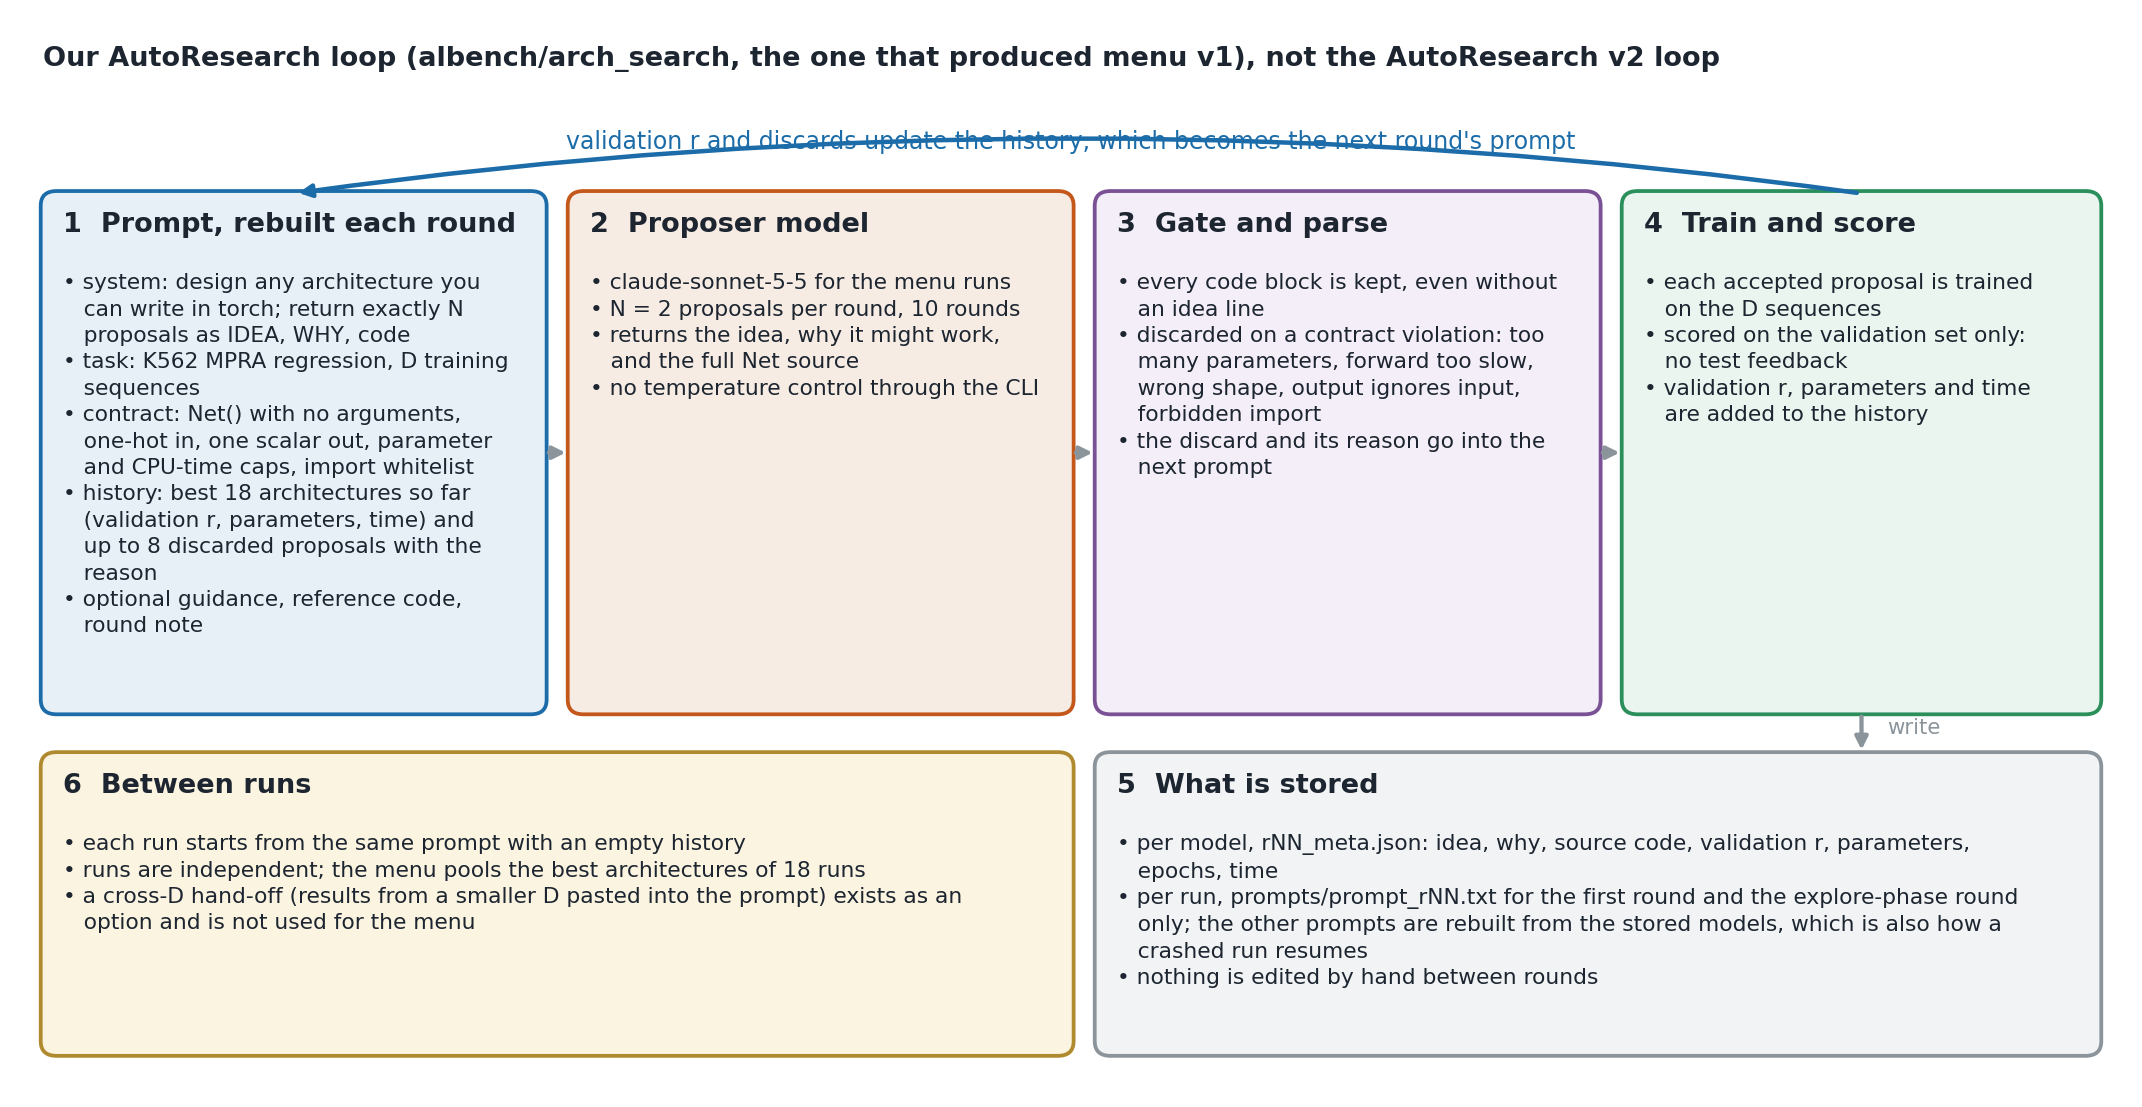
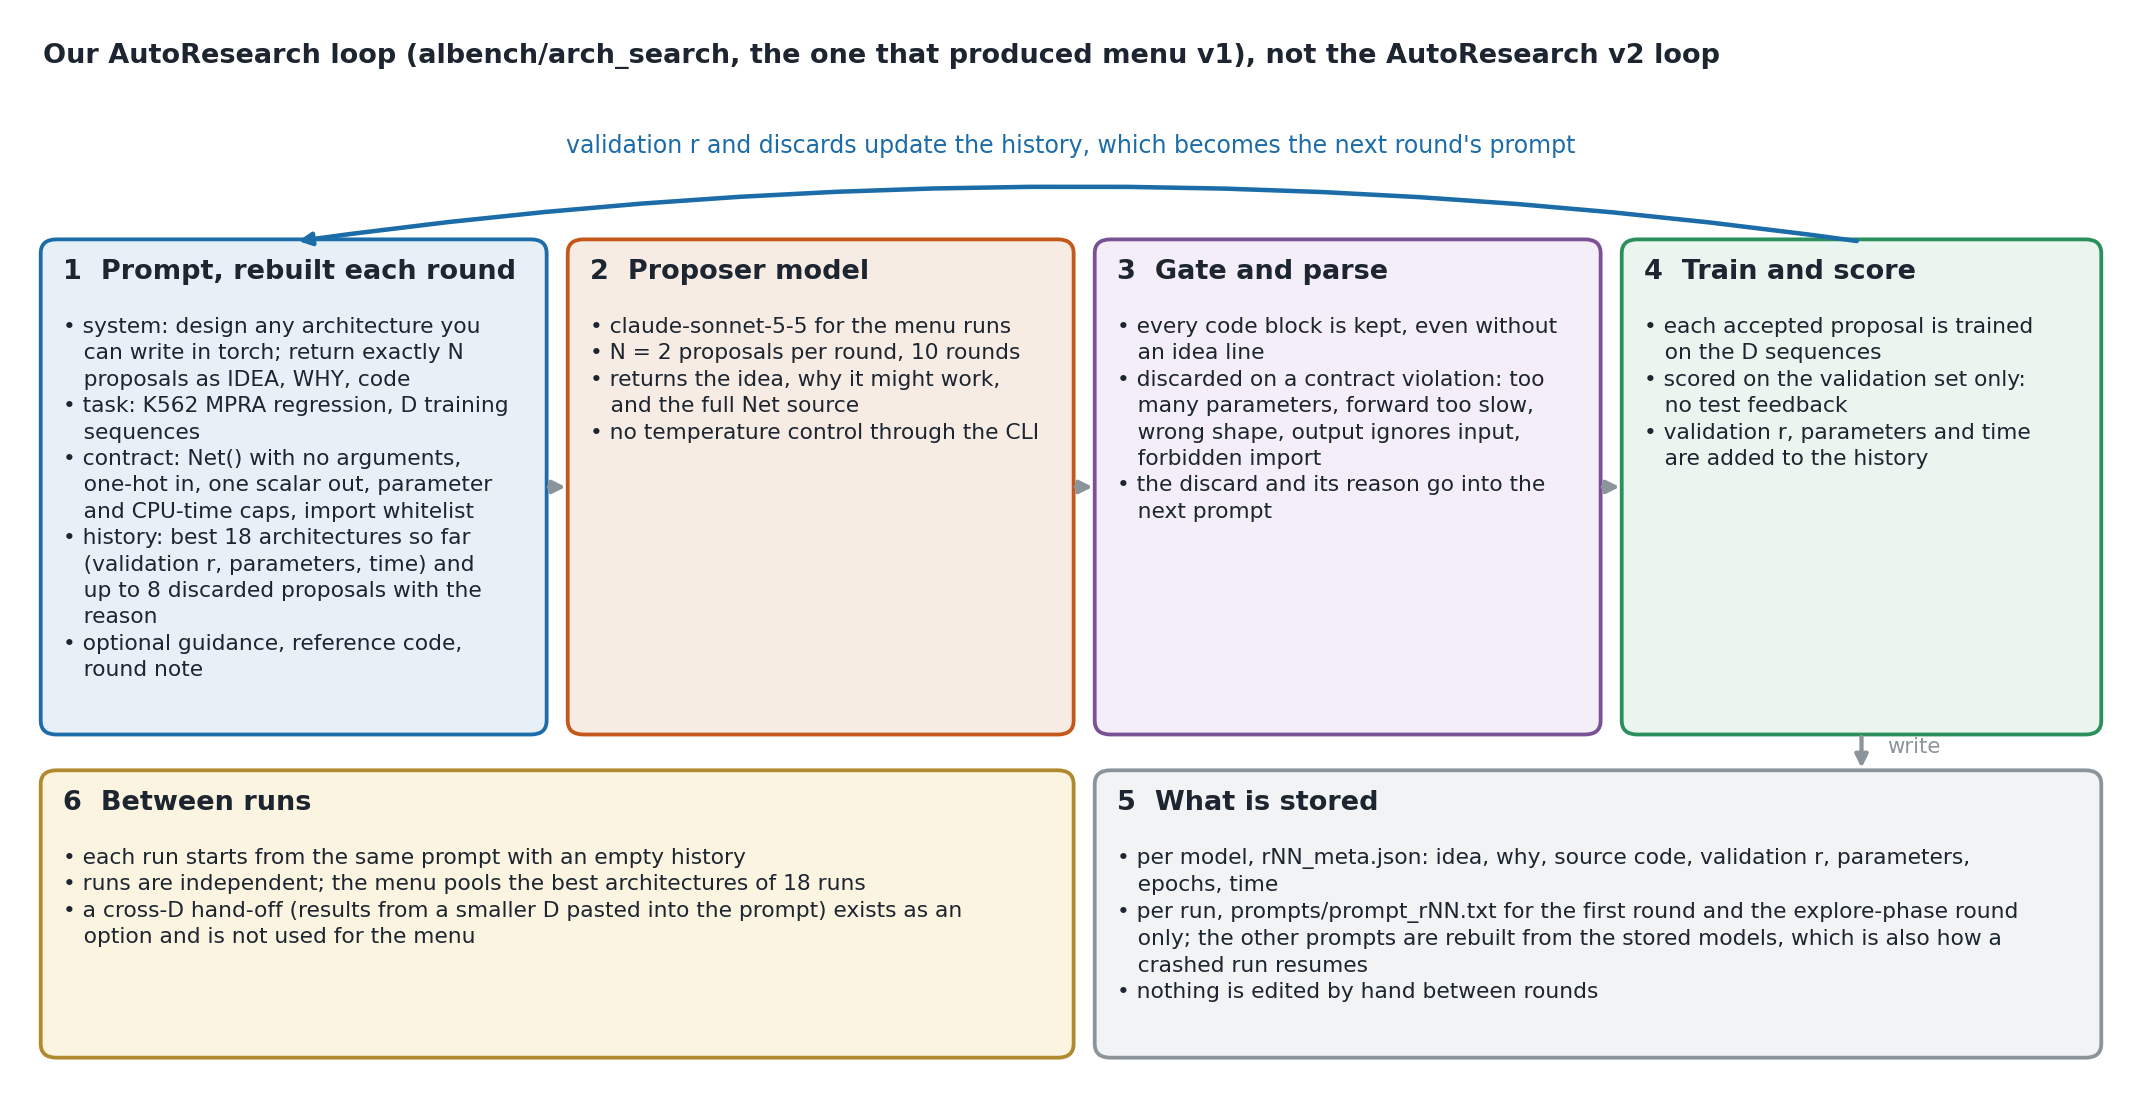
slide figures: fix overlapping labels (prompt loop, rounds, evaluator)

diff --git a/scripts/analysis/make_slide_figures.py b/scripts/analysis/make_slide_figures.py
@@ -113,7 +113,7 @@ def fig_rounds(inp, out):
                 alpha=0.35,
                 lw=0,
             )
-    ax.set_xlabel("proposals per run (line: 3 runs pooled; dots: each run alone)")
+    ax.set_xlabel("proposals per run (dots: single runs)")
     ax.set_title("Three runs pooled, as the menu does", fontsize=11)
     ax.axvline(20, color=ORANGE, ls="--", lw=1.4)
     ax.legend(frameon=False, fontsize=8, loc="lower right")
@@ -344,7 +344,7 @@ def fig_evaluator(inp, out):
         "coder only",
         "random 2 of 6",
         "evaluator 2 of 6",
-        "evaluator +\nreflector",
+        "eval. + reflector",
         "explore-style",
     ]
     col = [GREY, BLUE, "#9fb3bc", ORANGE, "#e08a5c", PURPLE]
@@ -377,7 +377,7 @@ def fig_evaluator(inp, out):
         if not os.path.exists(os.path.join(inp, "data_loopctl.json")):
             ax.set_ylim(min(ys) - 0.01, max(ys) + 0.006)
         ax.set_xticks(
-            range(len(arms)), lab, rotation=40, ha="right", fontsize=9, rotation_mode="anchor"
+            range(len(arms)), lab, rotation=50, ha="right", fontsize=8.5, rotation_mode="anchor"
         )
         ax.set_title(SETN[s], fontsize=11)
         ax.set_ylabel(
@@ -776,7 +776,7 @@ def fig_prompt_loop(inp, out):
     from matplotlib.patches import FancyBboxPatch
 
     fig, ax = plt.subplots(figsize=(16, 8.2))
-    ax.set_xlim(0, 16), ax.set_ylim(0, 8.8), ax.axis("off")
+    ax.set_xlim(0, 16), ax.set_ylim(0, 9.3), ax.axis("off")
 
     def box(x, y, w, h, title, items, fc, ec, wrap):
         ax.add_patch(
@@ -905,7 +905,7 @@ def fig_prompt_loop(inp, out):
     )
     ax.text(
         8.0,
-        7.72,
+        8.12,
         "validation r and discards update the history, which becomes the next round's prompt",
         fontsize=10,
         color=BLUE,
@@ -913,7 +913,7 @@ def fig_prompt_loop(inp, out):
     )
     ax.text(
         0.2,
-        8.35,
+        8.85,
         "Our AutoResearch loop (albench/arch_search, the one that produced menu v1), not the AutoResearch v2 loop",
         fontsize=11.5,
         weight="bold",
